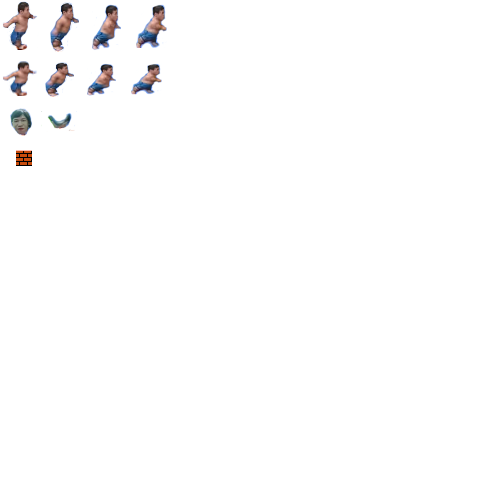
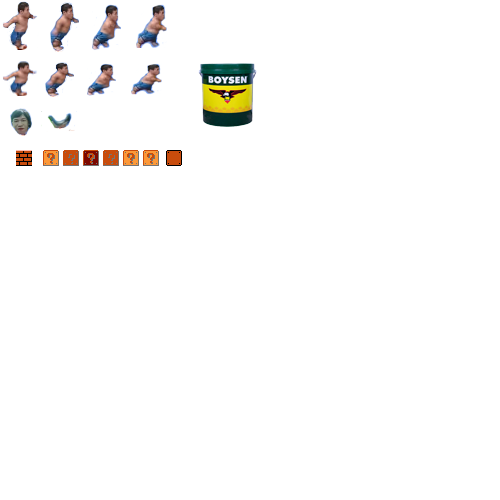
fix unbreakable brick secret mar 26 2026

Changed region(s): [[0.39, 0.12, 0.51, 0.27], [0.06, 0.3, 0.39, 0.33]]

diff --git a/src/scenes/MarioScene.js b/src/scenes/MarioScene.js
@@ -3,6 +3,7 @@ import { Brick } from '../entities/mario/brick.js';
 import { Ground } from '../entities/mario/ground.js';
 import { KapNino } from '../entities/mario/KapNino.js';
 import { Mario } from '../entities/mario/Mario.js';
+import { SecretBlock } from '../entities/mario/secretBlock.js';
 import * as control from '../inputHandler.js';
 
 export class MarioScene {
@@ -21,12 +22,13 @@ export class MarioScene {
         ];
 
         this.bricks = [
-            new Brick(this, 120, 150),
-            new Brick(this, 160, 150),
-            new Brick(this, 30, 150),
-            new Brick(this, 60, 150),
+            new Brick(this, 326, 141),
+            new Brick(this, 160, 140),
+            new Brick(this, 30, 140),
+            new Brick(this, 60, 140),
+            new SecretBlock(this, 345,141),
             new Ground(this, 0, 208, 1100, 16),
-            new Ground(this, 200, 110, 16, 100)
+            new Ground(this, 442, 175, 34, 30)
         ];
 
         this.frames = new Map([['stage', [5, 0, 3584, 480]]]);
@@ -68,45 +70,41 @@ export class MarioScene {
     this.mario.onGround = false;
 
     const marioPush = this.mario.boxes.push;
-    const marioBox = this.getWorldBox(marioPush, this.mario);
+const marioHeadY = this.mario.position.y + marioPush.y;
 
-    for (const brick of this.bricks) {
-        const brickBox = brick.getWorldBox();
+for (const brick of this.bricks) {
+    const brickBox = brick.getWorldBox();
+    const brickBottomY = brickBox.y + brickBox.height;
+    const isHorizontallyOverlapping =
+        marioPush.x + marioPush.width > brickBox.x &&
+        marioPush.x < brickBox.x + brickBox.width;
 
-        // --- HEADBUTT (from below) ---
-        const marioHeadY = this.mario.position.y + marioPush.y;
-        const brickBottomY = brickBox.y + brickBox.height;
-        const isHorizontallyOverlapping =
-            marioBox.x + marioBox.width > brickBox.x &&
-            marioBox.x < brickBox.x + brickBox.width;
-
-        if (!brick.isBroken &&
-            this.mario.velocity.y < 0 &&
-            marioHeadY < brickBottomY &&
-            marioHeadY + marioPush.height > brickBox.y &&
-            isHorizontallyOverlapping
-        ) {
-            brick.break();
-            this.mario.velocity.y = 2; // bounce down
-        }
-
-        // --- LANDING (from above) ---
-        const marioFeetY = this.mario.position.y + marioPush.y + marioPush.height;
-        const brickTopY = brickBox.y;
-        const landingTolerance = 5;
-
-        if (!brick.isBroken &&
-            this.mario.velocity.y >= 0 &&
-            marioFeetY <= brickTopY + landingTolerance &&
-            marioFeetY + this.mario.velocity.y >= brickTopY - landingTolerance && // prevent falling through
-            isHorizontallyOverlapping
-        ) {
-            // Snap Mario to top of brick
-            this.mario.position.y = brickTopY - marioPush.height - marioPush.y;
-            this.mario.velocity.y = 0;
-            this.mario.onGround = true;
-        }
+    // HEADBUTT
+    if (this.mario.velocity.y < 0 &&
+        marioHeadY < brickBottomY &&
+        marioHeadY + marioPush.height > brickBox.y &&
+        isHorizontallyOverlapping
+    ) {
+        brick.break();       // safe call for all bricks now
+        this.mario.velocity.y = 2;
     }
+
+    // LANDING
+    const marioFeetY = this.mario.position.y + marioPush.y + marioPush.height;
+    const brickTopY = brickBox.y;
+    const landingTolerance = 5;
+
+    if ((brick.isSolid || typeof brick.isBroken !== 'undefined') &&
+        this.mario.velocity.y >= 0 &&
+        marioFeetY <= brickTopY + landingTolerance &&
+        marioFeetY + this.mario.velocity.y >= brickTopY - landingTolerance &&
+        isHorizontallyOverlapping
+    ) {
+        this.mario.position.y = brickTopY - marioPush.height - marioPush.y;
+        this.mario.velocity.y = 0;
+        this.mario.onGround = true;
+    }
+}
 }
 
     update(time) {

diff --git a/src/entities/mario/secretBlock.js b/src/entities/mario/secretBlock.js
@@ -1,0 +1,119 @@
+export class SecretBlock {
+    constructor(game, x, y) {
+        this.game = game;
+        this.position = { x, y };
+        this.image = document.querySelector('img[alt="mario"]');
+
+        // Always solid
+        this.isSolid = true;
+        this.bouncing = false;
+        this.bounceY = 0;
+        this.bounceSpeed = -2;
+        this.gravity = 0.2;
+
+        // Used state
+        this.used = false;
+
+        // Animation frames
+        this.frames = new Map([
+            ['brickIdle', [
+                [[43, 150, 16, 16], [8, 8]],
+                [[63, 150, 16, 16], [8, 8]],
+                [[83, 150, 16, 16], [8, 8]],
+            ]],
+            ['brickHit', [
+                [[166, 150, 16, 16], [8, 8]]
+            ]]
+        ]);
+
+        this.currentAnimationKey = 'brickIdle';
+        this.animationFrame = 0;
+        this.animationTimer = 0;
+
+        this.box = { x: 0, y: 0, width: 16, height: 16 };
+    }
+
+    // Always safe to call .break()
+    break() {
+        this.hit();
+    }
+
+    // Headbutt logic
+    hit() {
+        if (this.bouncing) return;
+
+        this.bouncing = true;
+        this.bounceY = 0;
+        this.bounceSpeed = -2;
+
+        if (!this.used) {
+            this.currentAnimationKey = 'brickHit';
+            this.animationFrame = 0;
+            this.animationTimer = 0;
+            this.spawnItem();
+            this.used = true;
+        }
+
+        console.log("SecretBlock hit!");
+    }
+
+    spawnItem() {
+        console.log("💡 Spawn item here!");
+    }
+
+    update() {
+        if (this.bouncing) {
+            this.bounceY += this.bounceSpeed;
+            this.bounceSpeed += this.gravity;
+            if (this.bounceY >= 0) {
+                this.bounceY = 0;
+                this.bouncing = false;
+            }
+        }
+
+        // Animate
+        this.animationTimer++;
+        const frames = this.frames.get(this.currentAnimationKey);
+        if (frames && frames.length > 1 && this.animationTimer >= 10) {
+            this.animationFrame = (this.animationFrame + 1) % frames.length;
+            this.animationTimer = 0;
+        }
+    }
+
+    draw(context, stage) {
+        const frames = this.frames.get(this.currentAnimationKey);
+        if (!frames) return;
+
+        const frame = frames[this.animationFrame % frames.length][0];
+        const [sx, sy, sw, sh] = frame;
+
+        context.drawImage(
+            this.image,
+            sx, sy, sw, sh,
+            this.position.x - stage.x,
+            this.position.y - stage.y + this.bounceY,
+            sw, sh
+        );
+    }
+
+    drawDebug(context, stage) {
+        const box = this.getWorldBox();
+        context.strokeStyle = 'orange';
+        context.lineWidth = 1;
+        context.strokeRect(
+            box.x - stage.x,
+            box.y - stage.y,
+            box.width,
+            box.height
+        );
+    }
+
+    getWorldBox() {
+        return {
+            x: this.position.x + this.box.x,
+            y: this.position.y + this.box.y,
+            width: this.box.width,
+            height: this.box.height
+        };
+    }
+}

diff --git a/src/inputHandler.js b/src/inputHandler.js
@@ -6,7 +6,6 @@ import { sendInput } from './socket.js';
 
 let audioCtx;
 let audioUnlocked = false;
-console.count('keydown');
 
 
 export function unlockAudio() {
@@ -79,7 +78,7 @@ function handleKeyDown(event) {
    const active = document.activeElement;
     if (active && (active.tagName === 'INPUT' || active.tagName === 'TEXTAREA')) return;
   unlockAudio();
-  console.count('keydown');
+ 
   event.preventDefault();
   
   heldKeys.add(event.code);

diff --git a/src/entities/mario/Mario.js b/src/entities/mario/Mario.js
@@ -260,7 +260,7 @@ for (const brick of this.game.bricks) {
 
     const tolerance = 5; // slightly bigger to prevent jitter
 
-    if(horizontallyOverlapping)console.log("Hori overlap")
+    
 
     // --- LANDING from above ---
     if (this.velocity.y >= 0 && marioFeetY >= brickTopY - tolerance && marioFeetY <= brickTopY + this.velocity.y && horizontallyOverlapping) {

diff --git a/src/entities/mario/ground.js b/src/entities/mario/ground.js
@@ -14,7 +14,7 @@ export class Ground {
 
         // Simple brick frame (adjust to your sprite sheet)
         this.frames = new Map([
-            ['brick', [[16, 150, 16, 16]]], // CHANGE coords if needed
+            ['brick', [[0, 0, 0, 0]]], // CHANGE coords if needed
         ]);
 
         this.currentAnimationKey = 'brick';
